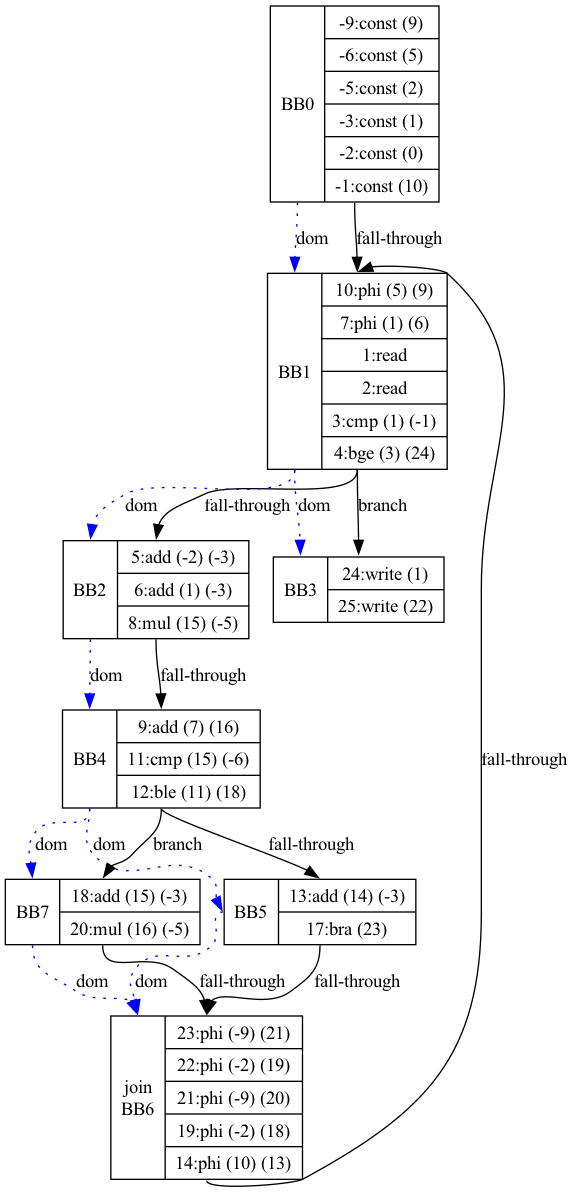
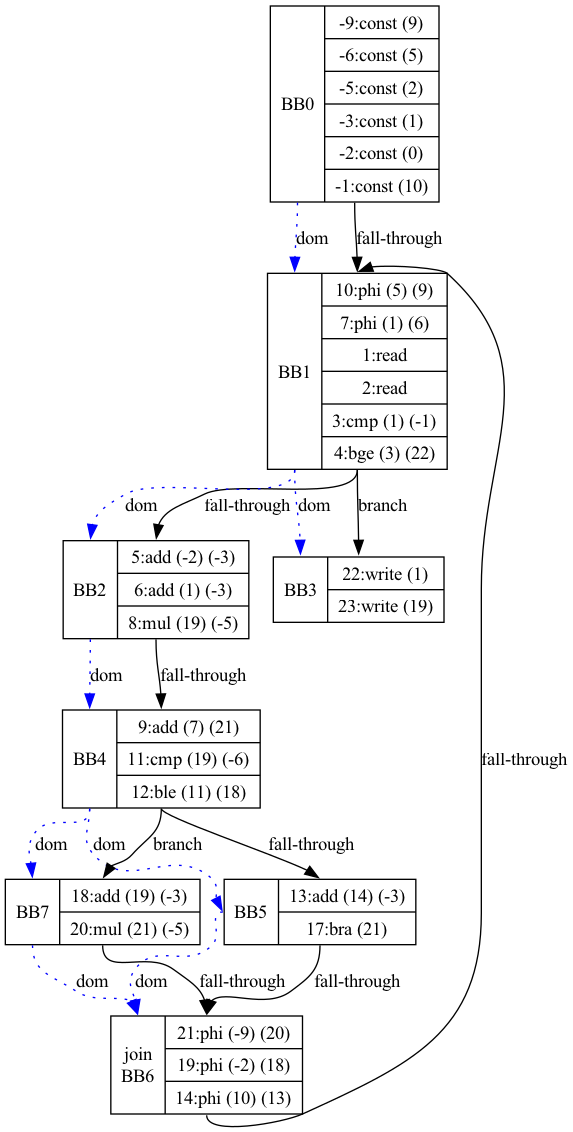
continue testing [nested_if_while.ty] fixed some PHI errors, some still persist [10-phi(5, 9), 14-phi(10,13)]; resolved if-blk new else removed phi; todo - continue fucCall && resolving nesting; todo ASAP - gdb step-through

diff --git a/src/Parser.cpp b/src/Parser.cpp
@@ -718,6 +718,7 @@ SSA* Parser::p2_assignment() {
                         // we want to first update the parent (if-blk)'s idents to reflect the new vals instead of phi's
                         // then we can update it in [this->currBB] and then delete the old phi-ssa's
                         BasicBlock *parent_if = this->currBB->parent;
+                        SSA *oldOldVal = oldVal;
                         if (parent_if->parent->varVals.at(ident) == parent_if->varVals.at(ident)) {
                             #ifdef DEBUG
                                 std::cout << "if-stmt main parent's ident val == if-blk's ident val == [" << SymbolTable::symbol_table.at(ident) << "]" << std::endl;
@@ -726,7 +727,6 @@ SSA* Parser::p2_assignment() {
                             oldVal = BasicBlock::ssa_table.at(parent_if->varVals.at(ident))->get_operand2();
 
                             parent_if->varVals.insert_or_assign(ident, BasicBlock::ssa_table_reversed.at(oldVal));
-                            parent_if->parent->varVals.insert_or_assign(ident, BasicBlock::ssa_table_reversed.at(oldVal));
                         }
 
                         SSA *phi_instr = this->addSSA1(6, oldVal, value, true);
@@ -737,10 +737,15 @@ SSA* Parser::p2_assignment() {
                         // [10.28.2024]: Update BasicBlock's VV
                         int phi_table_int = this->add_SSA_table(phi_instr);
                         table_int = phi_table_int;
-                        // 11.12.2024: propagateDown will already insert, so we don't do this to avoid skipping over the update in [this->currBB]
+                        // [12.03.2024]: since we don't propagate down for if-else fix, we must insert to maintain updated val in join-blk
+                        // [11.12.2024: propagateDown will already insert, so we don't do this to avoid skipping over the update in [this->currBB]
+                        this->propagateDown(this->currBB, ident, oldOldVal, phi_table_int, true);
                         // this->currBB->varVals.insert_or_assign(ident, phi_table_int);
-                        
+                        // parent_if->parent->varVals.insert_or_assign(ident, phi_table_int);
+
                         #ifdef DEBUG
+                            std::cout << "updated parent_if-blk looks like: " << std::endl << parent_if->toString() << std::endl;
+                            std::cout << "updated parent_if->parent-blk looks like: " << std::endl << parent_if->parent->toString() << std::endl;
                             std::cout << "this->currBB looks like: " << this->currBB->toString() << std::endl;
                         #endif
                         
